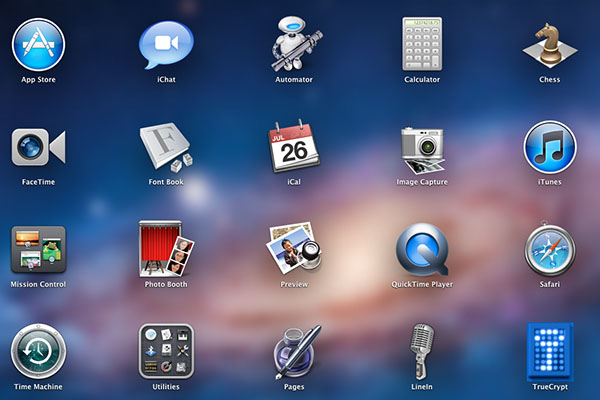
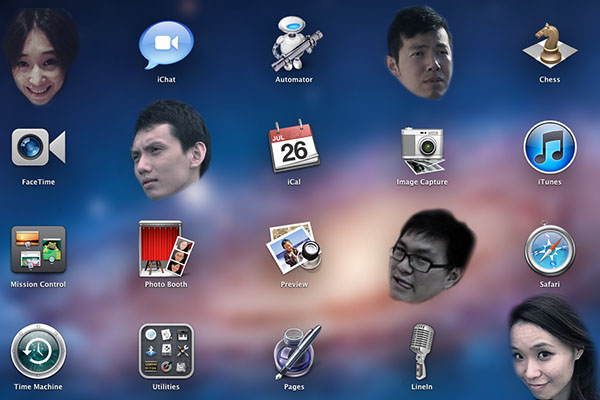
adjust difficulties change share buttons to both like&share

diff --git a/app/assets/javascripts/quiz_content.js b/app/assets/javascripts/quiz_content.js
@@ -1,24 +1,24 @@
 var s1 = { "marginLeft": 390 , "marginTop": -380, "width": 150, "height": 230, "revealing_speed": "0", "correct_left_modifier": 0, "backgroundImage": 'url("/assets/1.jpg")', "rightAnswer": 'none'};
-var s2 = { "marginLeft": 506 , "marginTop": -150, "width": 40, "height": 80, "revealing_speed": "0", "correct_left_modifier": 0, "backgroundImage": 'url("/assets/2.jpg")', "rightAnswer": 'none'};
-var s3 = { "marginLeft": 390 , "marginTop": -180, "width": 80, "height": 80, "revealing_speed": "0", "correct_left_modifier": 0, "backgroundImage": 'url("/assets/3.jpg")', "rightAnswer": 'none'};
+var s2 = { "marginLeft": -5 , "marginTop": -110, "width": 30, "height": 100, "revealing_speed": "0", "correct_left_modifier": 0, "backgroundImage": 'url("/assets/2.jpg")', "rightAnswer": 'none'};
+var s3 = { "marginLeft": 90 , "marginTop": -402, "width": 75, "height": 45, "revealing_speed": "0", "correct_left_modifier": 0, "backgroundImage": 'url("/assets/3.jpg")', "rightAnswer": 'none'};
 var s4 = { "marginLeft": 420 , "marginTop": -240, "width": 60, "height": 80, "revealing_speed": "0", "correct_left_modifier": 0, "backgroundImage": 'url("/assets/4.jpg")', "rightAnswer": 'none'};
 var s5 = { "marginLeft": 540 , "marginTop": -400, "width": 50, "height": 55, "revealing_speed": "0", "correct_left_modifier": 0, "backgroundImage": 'url("/assets/5.jpg")', "rightAnswer": 'none'};
-var s6 = { "marginLeft": 165 , "marginTop": -348, "width": 110, "height": 348, "revealing_speed": "0", "correct_left_modifier": 0, "backgroundImage": 'url("/assets/6.jpg")', "rightAnswer": 'none'};
-var s7 = { "marginLeft": 340 , "marginTop": -156, "width": 48, "height": 55, "revealing_speed": "0", "correct_left_modifier": 0, "backgroundImage": 'url("/assets/7.jpg")', "rightAnswer": 'none'};
+var s6 = { "marginLeft": -5 , "marginTop": -90, "width": 50, "height": 90, "revealing_speed": "0", "correct_left_modifier": 0, "backgroundImage": 'url("/assets/6.jpg")', "rightAnswer": 'none'};
+var s7 = { "marginLeft": 550 , "marginTop": -100, "width": 40, "height": 55, "revealing_speed": "0", "correct_left_modifier": 0, "backgroundImage": 'url("/assets/7.jpg")', "rightAnswer": 'none'};
 var s8 = { "marginLeft": 50 , "marginTop": -220, "width": 130, "height": 135, "revealing_speed": "0", "correct_left_modifier": 0, "backgroundImage": 'url("/assets/8.jpg")', "rightAnswer": 'none'};
-var s9 = { "marginLeft": 420 , "marginTop": -312, "width": 42, "height": 55, "revealing_speed": "0", "correct_left_modifier": 0, "backgroundImage": 'url("/assets/9.jpg")', "rightAnswer": 'none'};
+var s9 = { "marginLeft": 425 , "marginTop": -312, "width": 42, "height": 55, "revealing_speed": "0", "correct_left_modifier": 0, "backgroundImage": 'url("/assets/9.jpg")', "rightAnswer": 'none'};
 var s10 = { "marginLeft": 300 , "marginTop": -200, "width": 40, "height": 50, "revealing_speed": "0", "correct_left_modifier": 0, "backgroundImage": 'url("/assets/10.jpg")', "rightAnswer": 'none'};
 
-var q1 = { "marginLeft": 520 , "marginTop": -400, "width": 80, "height": 80, "revealing_speed": "+=.0055", "correct_left_modifier": 0, "backgroundImage": 'url("/assets/1-1.jpg")', "rightAnswer": 'url("/assets/1-2.png")'};
-var q2 = { "marginLeft": 70 , "marginTop": -235, "width": 105, "height": 155, "revealing_speed": "+=.004", "correct_left_modifier": 50, "backgroundImage": 'url("/assets/2-1.jpg")', "rightAnswer": 'url("/assets/2-2.png")'};
-var q3 = { "marginLeft": 38 , "marginTop": -265, "width": 160, "height": 155, "revealing_speed": "+=.003", "correct_left_modifier": 100, "backgroundImage": 'url("/assets/3-1.jpg")', "rightAnswer": 'url("/assets/3-2.png")'};
-var q4 = { "marginLeft": 365 , "marginTop": -135, "width": 58, "height": 70, "revealing_speed": "+=.004", "correct_left_modifier": 200, "backgroundImage": 'url("/assets/4-1.jpg")', "rightAnswer": 'url("/assets/4-2.png")'};
-var q5 = { "marginLeft": 195 , "marginTop": -340, "width": 35, "height": 55, "revealing_speed": "+=.005", "correct_left_modifier": 0, "backgroundImage": 'url("/assets/5-1.jpg")', "rightAnswer": 'url("/assets/5-2.png")'};
-var q6 = { "marginLeft": 0 , "marginTop": -336, "width": 180, "height": 336, "revealing_speed": "+=.008", "correct_left_modifier": 0, "backgroundImage": 'url("/assets/6-1.jpg")', "rightAnswer": 'url("/assets/6-2.png")'};
-var q7 = { "marginLeft": 270 , "marginTop": -175, "width": 60, "height": 80, "revealing_speed": "+=.005", "correct_left_modifier": 0, "backgroundImage": 'url("/assets/7-1.jpg")', "rightAnswer": 'url("/assets/7-2.png")'};
-var q8 = { "marginLeft": 113 , "marginTop": -150, "width": 50, "height": 50, "revealing_speed": "+=.005", "correct_left_modifier": 0, "backgroundImage": 'url("/assets/8-1.jpg")', "rightAnswer": 'url("/assets/8-2.png")'};
-var q9 = { "marginLeft": 210 , "marginTop": -225, "width": 130, "height": 125, "revealing_speed": "+=.005", "correct_left_modifier": 0, "backgroundImage": 'url("/assets/9-1.jpg")', "rightAnswer": 'url("/assets/9-2.png")'};
-var q10 = { "marginLeft": 0 , "marginTop": -125, "width": 60, "height": 125, "revealing_speed": "+=.003", "correct_left_modifier": 0, "backgroundImage": 'url("/assets/10-1.jpg")', "rightAnswer": 'url("/assets/10-2.png")'};
+var q1 = { "marginLeft": 510 , "marginTop": -402, "width": 95, "height": 90, "revealing_speed": "+=.004", "correct_left_modifier": 0, "backgroundImage": 'url("/assets/1-1.jpg")', "rightAnswer": 'url("/assets/1-2.png")'};
+var q2 = { "marginLeft": 70 , "marginTop": -235, "width": 105, "height": 155, "revealing_speed": "+=.002", "correct_left_modifier": 50, "backgroundImage": 'url("/assets/2-1.jpg")', "rightAnswer": 'url("/assets/2-2.png")'};
+var q3 = { "marginLeft": 460 , "marginTop": -135, "width": 80, "height": 100, "revealing_speed": "+=.001", "correct_left_modifier": 100, "backgroundImage": 'url("/assets/3-1.jpg")', "rightAnswer": 'url("/assets/3-2.png")'};
+var q4 = { "marginLeft": 95 , "marginTop": -170, "width": 70, "height": 90, "revealing_speed": "+=.0012", "correct_left_modifier": 200, "backgroundImage": 'url("/assets/4-1.jpg")', "rightAnswer": 'url("/assets/4-2.png")'};
+var q5 = { "marginLeft": 195 , "marginTop": -340, "width": 35, "height": 55, "revealing_speed": "+=.0025", "correct_left_modifier": 0, "backgroundImage": 'url("/assets/5-1.jpg")', "rightAnswer": 'url("/assets/5-2.png")'};
+var q6 = { "marginLeft": 545 , "marginTop": -395, "width": 48, "height": 65, "revealing_speed": "+=.002", "correct_left_modifier": 0, "backgroundImage": 'url("/assets/6-1.jpg")', "rightAnswer": 'url("/assets/6-2.png")'};
+var q7 = { "marginLeft": 270 , "marginTop": -175, "width": 60, "height": 80, "revealing_speed": "+=.003", "correct_left_modifier": 0, "backgroundImage": 'url("/assets/7-1.jpg")', "rightAnswer": 'url("/assets/7-2.png")'};
+var q8 = { "marginLeft": 113 , "marginTop": -165, "width": 50, "height": 65, "revealing_speed": "+=.002", "correct_left_modifier": 0, "backgroundImage": 'url("/assets/8-1.jpg")', "rightAnswer": 'url("/assets/8-2.png")'};
+var q9 = { "marginLeft": 210 , "marginTop": -230, "width": 130, "height": 130, "revealing_speed": "+=.0008", "correct_left_modifier": 0, "backgroundImage": 'url("/assets/9-1.jpg")', "rightAnswer": 'url("/assets/9-2.png")'};
+var q10 = { "marginLeft": 60 , "marginTop": -270, "width": 40, "height": 52, "revealing_speed": "+=.0015", "correct_left_modifier": 0, "backgroundImage": 'url("/assets/10-1.jpg")', "rightAnswer": 'url("/assets/10-2.png")'};
 
 var r1 = { "marginLeft": 0 , "marginTop": 0, "width": 0, "height": 0, "right_answer_number": 5,
 		"right_answer1_marginLeft": 0, "right_answer1_marginTop": -400, "right_answer1_width": 80, "right_answer1_height": 110,
@@ -26,19 +26,36 @@ var r1 = { "marginLeft": 0 , "marginTop": 0, "width": 0, "height": 0, "right_ans
 		"right_answer3_marginLeft": 385, "right_answer3_marginTop": -400, "right_answer3_width": 70, "right_answer3_height": 100,
 		"right_answer4_marginLeft": 385, "right_answer4_marginTop": -192, "right_answer4_width": 92, "right_answer4_height": 100,
 		"right_answer5_marginLeft": 505, "right_answer5_marginTop": -107, "right_answer5_width": 95, "right_answer5_height": 107,
-		"revealing_speed": "+=1", "correct_left_modifier": 0, "backgroundImage": 'url("/assets/1_1.jpg")', "rightAnswer": 'url("/assets/1_2.png")'};
+		"revealing_speed": "0", "correct_left_modifier": 0, "backgroundImage": 'url("/assets/1_1.jpg")', "rightAnswer": 'none'};
 var r2 = { "marginLeft": 0 , "marginTop": 0, "width": 0, "height": 0,  "right_answer_number": 4,
 		"right_answer1_marginLeft": 90, "right_answer1_marginTop": -388, "right_answer1_width": 60, "right_answer1_height": 90,
 		"right_answer2_marginLeft": 100, "right_answer2_marginTop": -240, "right_answer2_width": 80, "right_answer2_height": 60,
 		"right_answer3_marginLeft": 260, "right_answer3_marginTop": -380, "right_answer3_width": 80, "right_answer3_height": 120,
 		"right_answer4_marginLeft": 460, "right_answer4_marginTop": -233, "right_answer4_width": 50, "right_answer4_height": 50,
-		"revealing_speed": "+=1", "correct_left_modifier": 0, "backgroundImage": 'url("/assets/2_1.jpg")', "rightAnswer": 'url("/assets/2_2.png")'};
+		"revealing_speed": "0", "correct_left_modifier": 0, "backgroundImage": 'url("/assets/2_1.jpg")', "rightAnswer": 'none'};
 var r3 = { "marginLeft": 0 , "marginTop": 0, "width": 0, "height": 0,  "right_answer_number": 4,
 		"right_answer1_marginLeft": 0, "right_answer1_marginTop": -400, "right_answer1_width": 80, "right_answer1_height": 100,
 		"right_answer2_marginLeft": 60, "right_answer2_marginTop": -200, "right_answer2_width": 120, "right_answer2_height": 155,
 		"right_answer3_marginLeft": 290, "right_answer3_marginTop": -360, "right_answer3_width": 120, "right_answer3_height": 110,
 		"right_answer4_marginLeft": 410, "right_answer4_marginTop": -240, "right_answer4_width": 150, "right_answer4_height": 190,
-		"revealing_speed": "+=1", "correct_left_modifier": 0, "backgroundImage": 'url("/assets/3_1.jpg")', "rightAnswer": 'url("/assets/3_2.png")'};
+		"revealing_speed": "0", "correct_left_modifier": 0, "backgroundImage": 'url("/assets/3_1.jpg")', "rightAnswer": 'none'};
+var r4 = { "marginLeft": 0 , "marginTop": 0, "width": 0, "height": 0,  "right_answer_number": 3,
+		"right_answer1_marginLeft": 40, "right_answer1_marginTop": -290, "right_answer1_width": 30, "right_answer1_height": 80,
+		"right_answer2_marginLeft": 210, "right_answer2_marginTop": -200, "right_answer2_width": 40, "right_answer2_height": 50,
+		"right_answer3_marginLeft": 450, "right_answer3_marginTop": -260, "right_answer3_width": 150, "right_answer3_height": 260,
+		"revealing_speed": "0", "correct_left_modifier": 0, "backgroundImage": 'url("/assets/4_1.jpg")', "rightAnswer": 'none'};
+var r5 = { "marginLeft": 0 , "marginTop": 0, "width": 0, "height": 0,  "right_answer_number": 5,
+		"right_answer1_marginLeft": 20, "right_answer1_marginTop": -380, "right_answer1_width": 160, "right_answer1_height": 220,
+		"right_answer2_marginLeft": 170, "right_answer2_marginTop": -285, "right_answer2_width": 105, "right_answer2_height": 230,
+		"right_answer3_marginLeft": 260, "right_answer3_marginTop": -195, "right_answer3_width": 90, "right_answer3_height": 140,
+		"right_answer4_marginLeft": 320, "right_answer4_marginTop": -270, "right_answer4_width": 100, "right_answer4_height": 215,
+		"right_answer5_marginLeft": 420, "right_answer5_marginTop": -380, "right_answer5_width": 170, "right_answer5_height": 220,
+		"revealing_speed": "0", "correct_left_modifier": 0, "backgroundImage": 'url("/assets/5_1.jpg")', "rightAnswer": 'none'};
+var r6 = { "marginLeft": 0 , "marginTop": 0, "width": 0, "height": 0,  "right_answer_number": 3,
+		"right_answer1_marginLeft": 35, "right_answer1_marginTop": -150, "right_answer1_width": 80, "right_answer1_height": 100,
+		"right_answer2_marginLeft": 200, "right_answer2_marginTop": -260, "right_answer2_width": 45, "right_answer2_height": 65,
+		"right_answer3_marginLeft": 522, "right_answer3_marginTop": -230, "right_answer3_width": 55, "right_answer3_height": 80,
+		"revealing_speed": "0", "correct_left_modifier": 0, "backgroundImage": 'url("/assets/6_1.jpg")', "rightAnswer": 'none'};
 
 
 
@@ -62,11 +79,10 @@ if (window.location.pathname == '/stage1') {
 		qs.push(pushToArray);
 	}
 } else if(window.location.pathname == '/stage3') {
-	var qs = [0];
+	var qs = [0, r1];
 	var arr1 = [s1, s2, s3, s4, s5, s6, s7, s8, s9, s10];
-	var arr2 = [q1, q2, q3, q4, q5, q6, q7, q8, q9, q10];
-	var arr3 = [r1, r2, r3];
-	var arr3InPosition = 0;		
+	var arr3 = [r2, r3, r4, r5, r6];
+	var arr3InPosition = 1;		
 	//目前以題目3,6,9出現r系列題目
 	for (var a = 0; a < 10 ; a++){
 		if (arr3InPosition >= 1) {
@@ -78,11 +94,8 @@ if (window.location.pathname == '/stage1') {
 		} else {
 			var randomNumber = Math.floor(Math.random() * arr1.length);
 			var pushToArray1 = arr1[randomNumber];
-			var pushToArray2 = arr2[randomNumber];
 			arr1.splice(randomNumber,1);
-			arr2.splice(randomNumber,1);
 			qs.push(pushToArray1);
-			qs.push(pushToArray2);
 			arr3InPosition = arr3InPosition + 1;
 		}
 	}

diff --git a/app/assets/javascripts/functions.js b/app/assets/javascripts/functions.js
@@ -117,11 +117,27 @@ function position_right_answer() {
 		$("#right_answer_id_4").css('marginTop' , qs[current_q_number].right_answer4_marginTop );
 		$("#right_answer_id_4").css('width' , qs[current_q_number].right_answer4_width );
 		$("#right_answer_id_4").css('height' , qs[current_q_number].right_answer4_height );
+		if (qs[current_q_number].right_answer_number > 3) {
+			$("#right_answer_id_4").css('marginLeft' , parseInt($(".quiz-window").css('marginLeft')) + qs[current_q_number].right_answer4_marginLeft );
+			$("#right_answer_id_4").css('marginTop' , qs[current_q_number].right_answer4_marginTop );
+			$("#right_answer_id_4").css('width' , qs[current_q_number].right_answer4_width );
+			$("#right_answer_id_4").css('height' , qs[current_q_number].right_answer4_height );
+		} else {
+			$("#right_answer_id_4").css('marginLeft' , '0');
+			$("#right_answer_id_4").css('marginTop' , '0');
+			$("#right_answer_id_4").css('width' , '0' );
+			$("#right_answer_id_4").css('height' , '0' );
+		}
 		if (qs[current_q_number].right_answer_number > 4) {
 			$("#right_answer_id_5").css('marginLeft' , parseInt($(".quiz-window").css('marginLeft')) + qs[current_q_number].right_answer5_marginLeft );
 			$("#right_answer_id_5").css('marginTop' , qs[current_q_number].right_answer5_marginTop );
 			$("#right_answer_id_5").css('width' , qs[current_q_number].right_answer5_width );
 			$("#right_answer_id_5").css('height' , qs[current_q_number].right_answer5_height );
+		} else {
+			$("#right_answer_id_5").css('marginLeft' , '0');
+			$("#right_answer_id_5").css('marginTop' , '0');
+			$("#right_answer_id_5").css('width' , '0' );
+			$("#right_answer_id_5").css('height' , '0' );
 		}
 		$(".right_answer").css('marginLeft' , 0 );
 		$(".right_answer").css('marginTop' , 0 );
@@ -239,6 +255,7 @@ function change_quiz() {
 		} else {
 			$(".quiz-window-3").css('background-image', 'url("/assets/stage_done_lose.png")');
 		}
+		$(".right_answer_multiple").css('display', 'none');
 		$(".back-to-menu").css('display', 'none');
 		$("#back-to-menu-id-2").css('display', 'static');
 	};

diff --git a/app/assets/stylesheets/thisapp.css.scss b/app/assets/stylesheets/thisapp.css.scss
@@ -112,6 +112,12 @@ body {
 	//opacity: 0.5;
 }
 
+.right_answer_multiple {
+	//background-color: red;
+	//opacity: 0.5;
+	position: absolute;
+}
+
 .correct {
 	background-image: image-url('correct.png');
 	width: 412px;
@@ -312,8 +318,3 @@ body {
 	padding-top: 10px;
 }
 
-.right_answer_multiple {
-	//background-color: red;
-	//opacity: 0.5;
-	position: absolute;
-}
